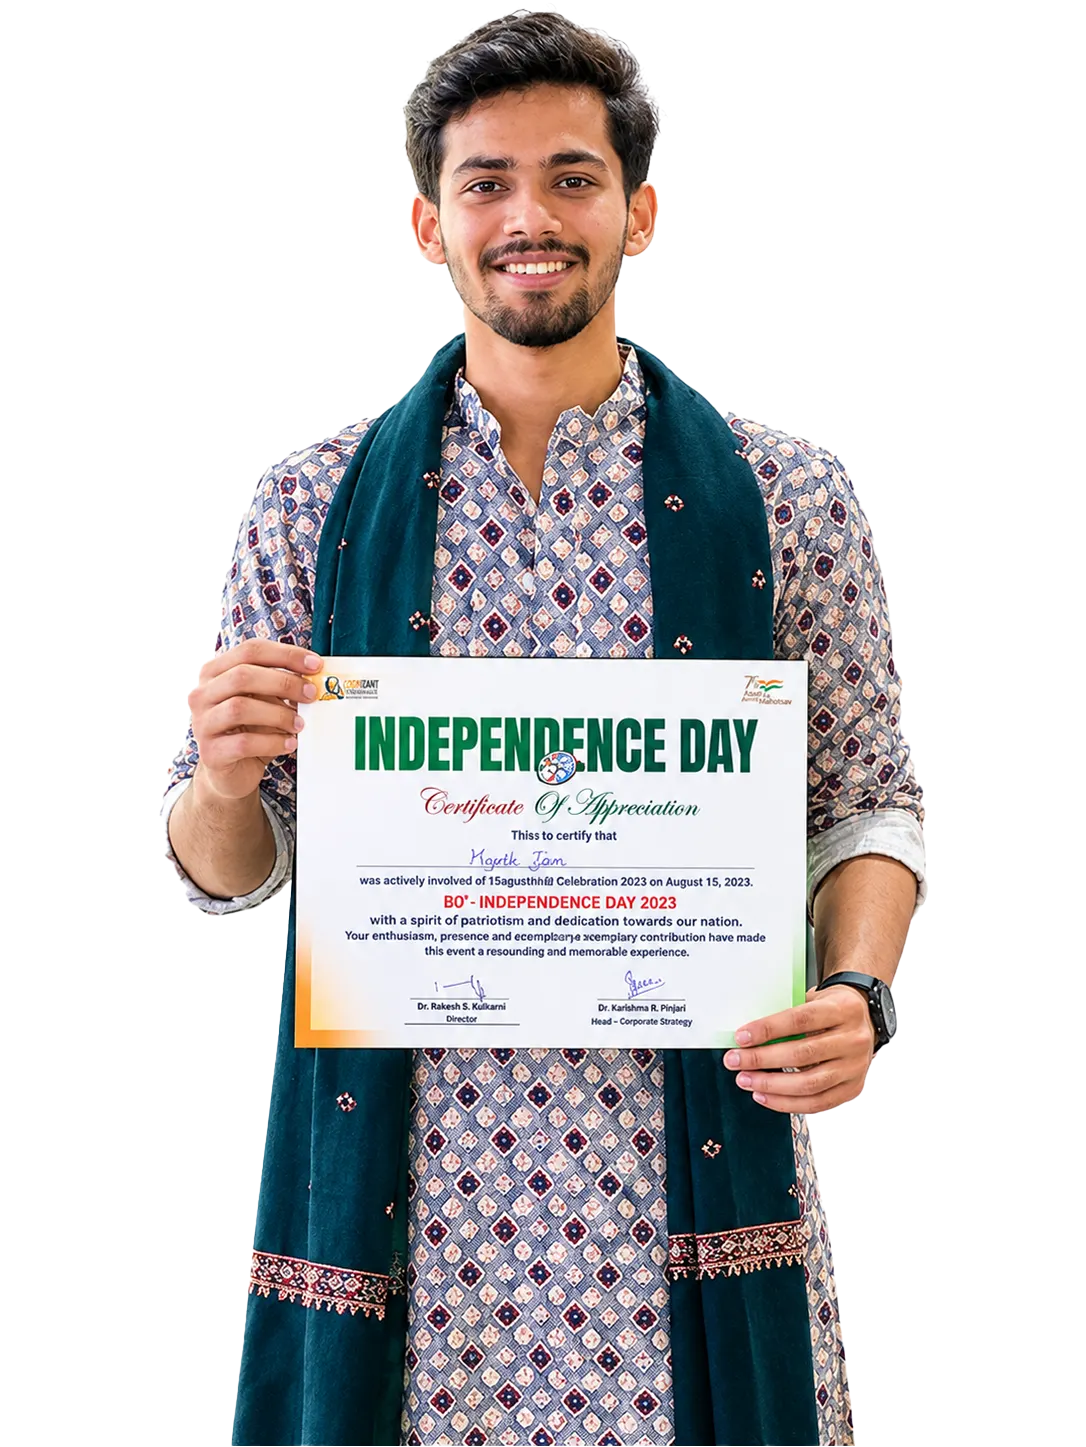
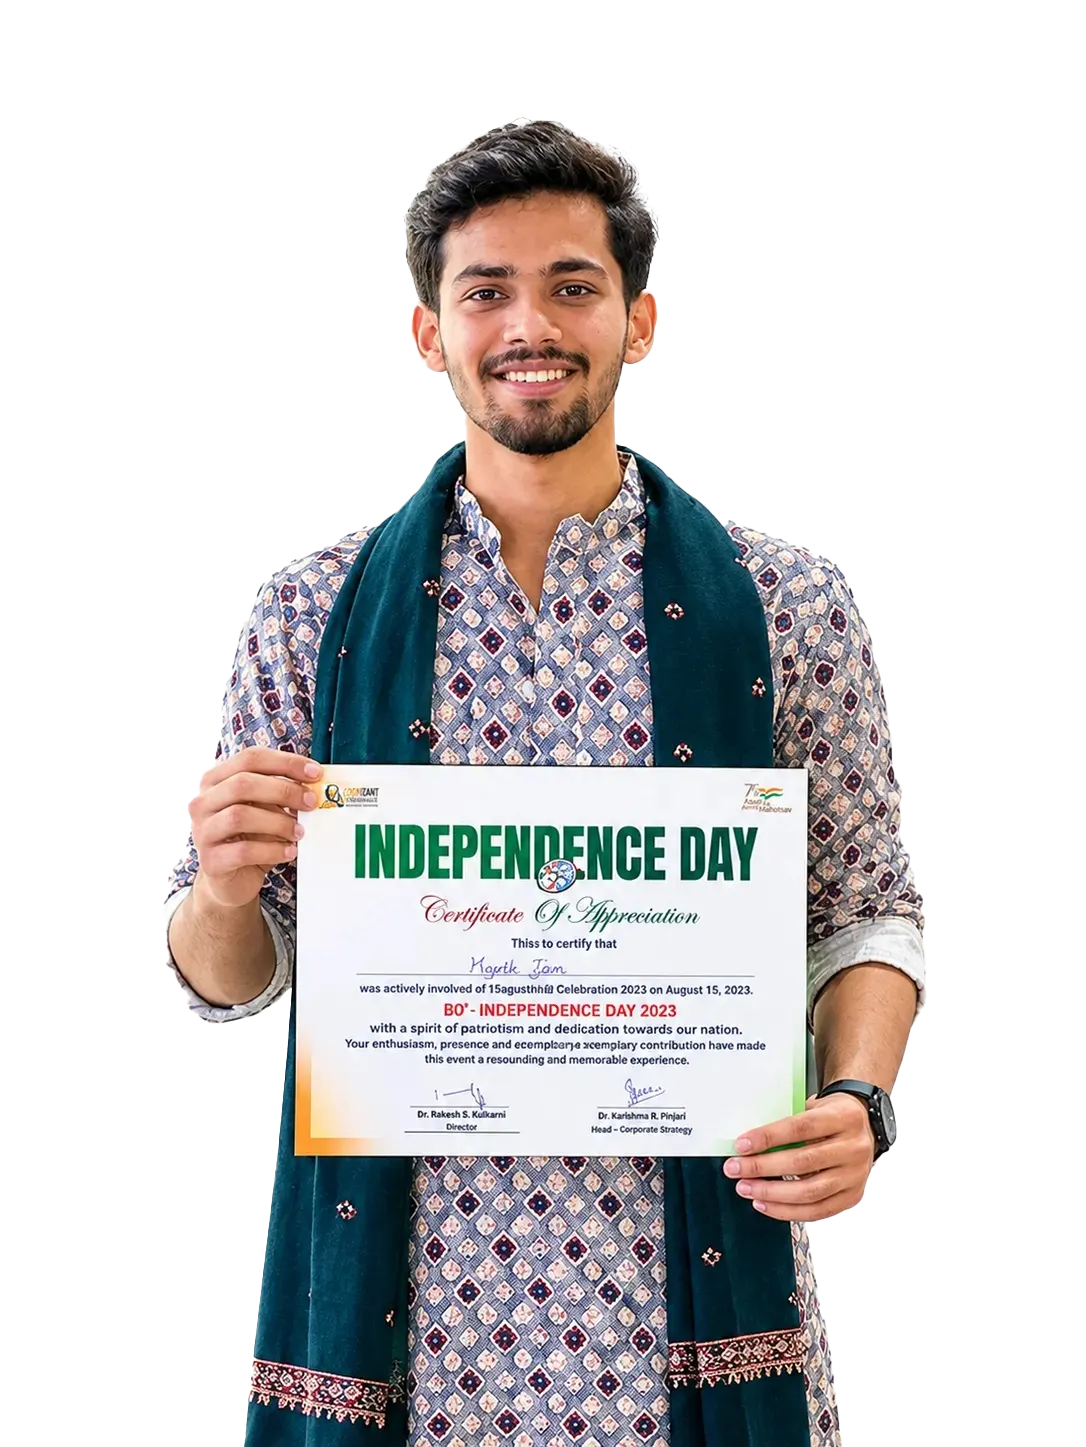
hero section updated

diff --git a/index.html b/index.html
@@ -69,21 +69,21 @@
        <div>
         <img alt="Dual degree graduation cap" decoding="async" height="67" loading="eager" src="images/globe-icon.png" width="67">
         <p>
-         <strong>350+</strong>
+         <strong style="font-size: 20px;">350+</strong>
          <span>Global Academic Partnerships</span>
         </p>
        </div>
        <div>
         <img alt="Scholarship and fee discount" decoding="async" height="67" loading="eager" src="images/student-icon.avif" width="67">
         <p>
-         <strong>Get Up To 100%</strong>
+         <strong style="font-size: 20px;">Get Up To 100%</strong>
          <span>Fee Discount</span>
         </p>
        </div>
        <div>
         <img alt="Expert faculty and industry guidance" decoding="async" height="67" loading="eager" src="images/quality-icon.avif" width="67">
         <p>
-         <strong>7 MPT</strong>
+         <strong style="font-size: 20px;">7 MPT</strong>
          <span>Specialisations to Choose From</span>
         </p>
        </div>
@@ -2732,18 +2732,16 @@
                                    <article class="law-achievement-card law-achievement-card--portrait"
                                           data-achievement="bhawana-honourable-mention-ncw-committee" role="listitem">
                                           <div class="law-achievement-image">
-                                                 <img alt="Bhawana, NIMS School of Law student" decoding="async"
-                                                        loading="lazy"
-                                                        src="images/anshika-sirala.webp"
-                                                        width="1024" height="1536">
+                                                 <img alt="Vaibhav Bhagat, NIMS School of physiotherapy student" decoding="async"
+                                                        loading="lazy" src="images/vaibhav-bhagat.webp" width="1024" height="1536">
                                           </div>
                                           <header class="law-achievement-card-heading">
-                                                 <h4>Anshika Sirala</h4>
+                                                 <h4>Vaibhav Bhagat</h4>
                                                  <!-- <span>Committee Recognition</span> -->
                                           </header>
                                           <div class="law-achievement-card-copy">
-                                                 <strong class="law-achievement-award">Honourable Mention Award</strong>
-                                                 <p>Awarded by TallyPrime</p>
+                                                 <strong class="law-achievement-award">Physio Synapse - Cricket Championship Winner</strong>
+                                                 <p>Physiotherapy Inter-Collegiate Cricket Tournament 4.0 Winner, Rajasthan jaipur</p>
                                           </div>
                                           
                                    </article>
@@ -2751,20 +2749,16 @@
                                           data-achievement="diksha-parihar-ai-careers-for-women-fellowship"
                                           role="listitem">
                                           <div class="law-achievement-image">
-                                                 <img alt="Divya Raghav, NIMS School of Physiotherapy student" decoding="async"
-                                                        loading="lazy"
-                                                        src="images/divya-raghav.webp"
-                                                        width="1024" height="1536">
+                                                 <img alt="Akanksha Kumari, NIMS School of Physiotherapy student" decoding="async"
+                                                        loading="lazy" src="images/akanksha-kumari.webp" width="1024" height="1536">
                                           </div>
                                           <header class="law-achievement-card-heading">
-                                                 <h4>Divya Raghav</h4>
+                                                 <h4>Akanksha Kumari</h4>
                                                  <!-- <span>Fellowship Selection</span> -->
                                           </header>
                                           <div class="law-achievement-card-copy">
-                                                 <strong class="law-achievement-award">AI Careers for Women
-                                                        Fellowship</strong>
-                                                 <p>Selected nationally for the AI Careers for Women LinkedIn
-                                                        Fellowship.</p>
+                                                 <strong class="law-achievement-award">Bharat Kavi Ratna Award</strong>
+                                                 <p>National awardee for outstanding contribution to literature.</p>
                                           </div>
                                           
                                    </article>
@@ -2783,7 +2777,7 @@
                                           </header>
                                           <div class="law-achievement-card-copy">
                                                  <strong class="law-achievement-award">Independence Day</strong>
-                                                 <p>Their outstanding performance secured a place among the Top Five, bringing pride and recognition to NIMS University.</p>
+                                                 <p>His outstanding performance in the Independence Day event, where he portrayed Chandra Shekhar Azad in an act, was highly praised.</p>
                                           </div>
                                           
                                    </article>
@@ -2800,11 +2794,8 @@
                                                  <!-- <span>Sports Achievement</span> -->
                                           </header>
                                           <div class="law-achievement-card-copy">
-                                                 <strong class="law-achievement-award">Certificate of Participation
-                                                        – Atal Innovation Mission</strong>
-                                                 <p>Priya Riniwar was recognised for successfully participating in the
-                                                        initiative celebrating India's journey from innovation to
-                                                        technological advancement.</p>
+                                                 <strong class="law-achievement-award">Certificate of Appreciation</strong>
+                                                 <p>Recognised for excellence in innovation, sustainability, waste-to-worth initiatives, esports competitions, leadership, and outstanding contributions to academic and national-level events.</p>
                                           </div>
                                           
                                    </article>

diff --git a/css/style.css b/css/style.css
@@ -3750,7 +3750,7 @@ button[aria-label*="next" i]:disabled{
 .hero-inner{height:100%;position:relative;max-width:1600px;margin:auto;width:92.5%;display:flex;align-items:center;justify-content:space-between}
 .hero-copy{width:41%;padding-bottom:8px;position:relative;z-index:2}
 .school-name{font-size:clamp(28px,2.5vw,40px);line-height:1.25;border-left:2px solid #ee0014;padding-left:7px;font-weight:700;margin-bottom:12px}
-.hero h1{font:600 clamp(48px,12.5vw,50px)/1.15 Anton,sans-serif;margin:0 0 10px;background:linear-gradient(105deg,#ffcf30,#ff182b);color:transparent;background-clip:text;-webkit-background-clip:text;width:max-content;line-height: 1.2 !important;}
+.hero h1{font:600 clamp(65px,71.5vw,59px)/1.15 Anton,sans-serif;margin:0 0 10px;background:linear-gradient(105deg,#ffcf30,#ff182b);color:transparent;background-clip:text;-webkit-background-clip:text;line-height: 1.2 !important;}
 .admissions-kicker{display:none;max-width:470px;margin:0 0 12px;color:#fff;font-size:clamp(12px,1vw,15px);font-weight:700;line-height:1.45;letter-spacing:.02em;text-shadow:0 1px 3px #0008}
 .admissions-ribbon{background:#d6000b;color:white;min-height:44px;padding:10px 20px;font-weight:800;font-size:clamp(14px,1.2vw,18px);line-height:1.4;letter-spacing:0;display:inline-flex;gap:18px;align-items:center}
 .admissions-ribbon:hover{background:#bd0006}
